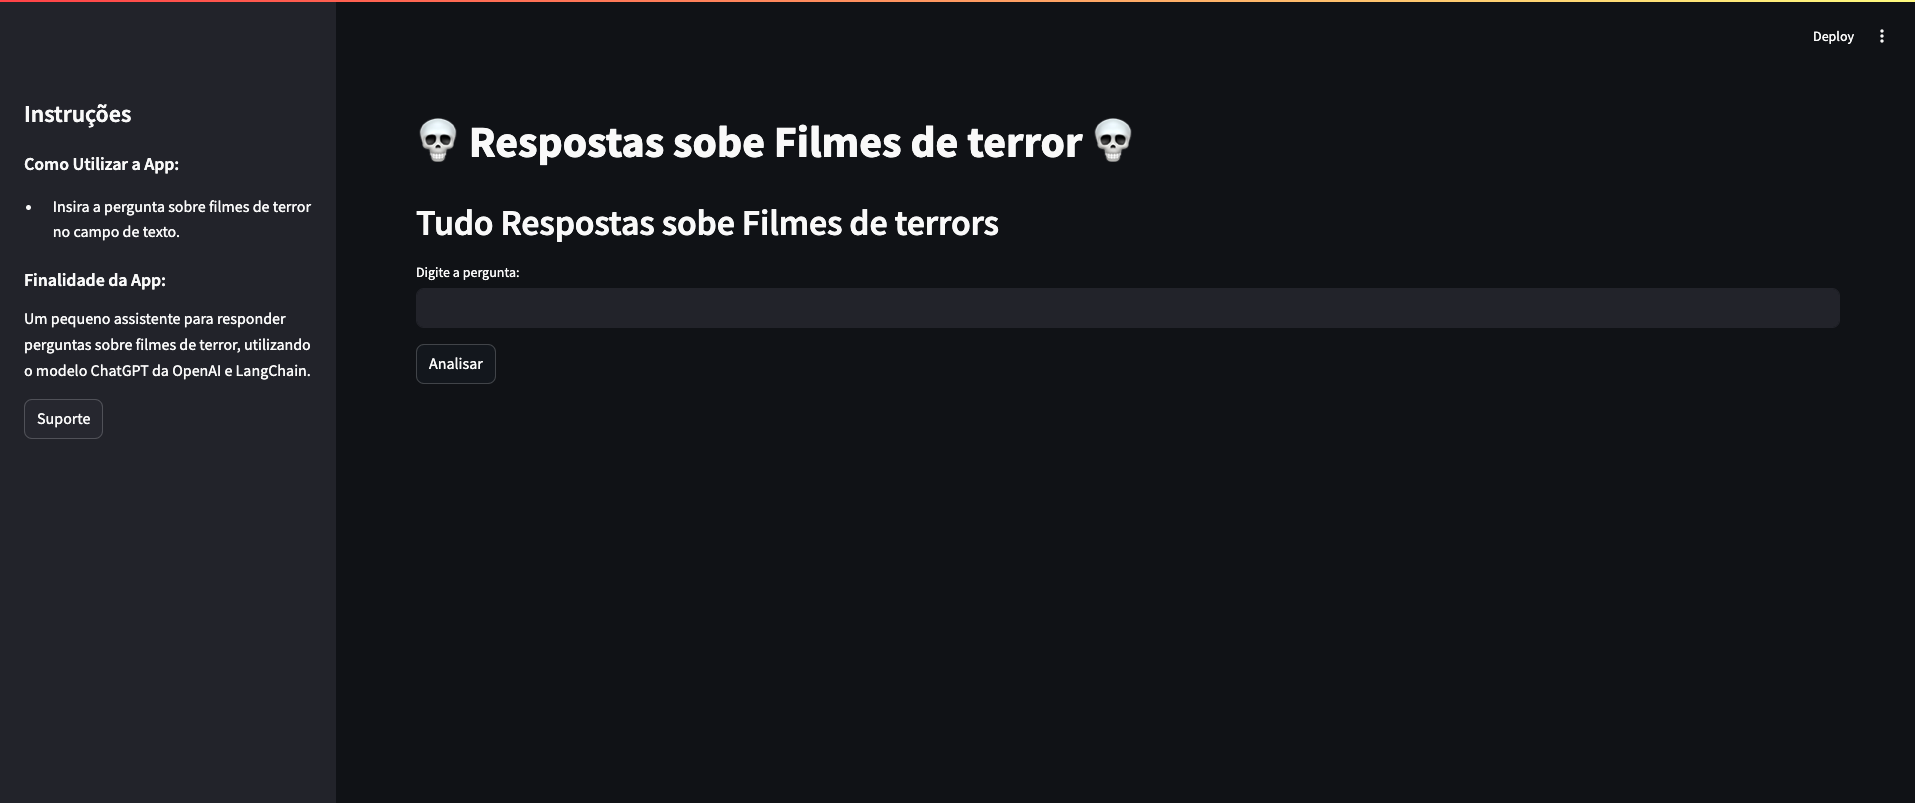
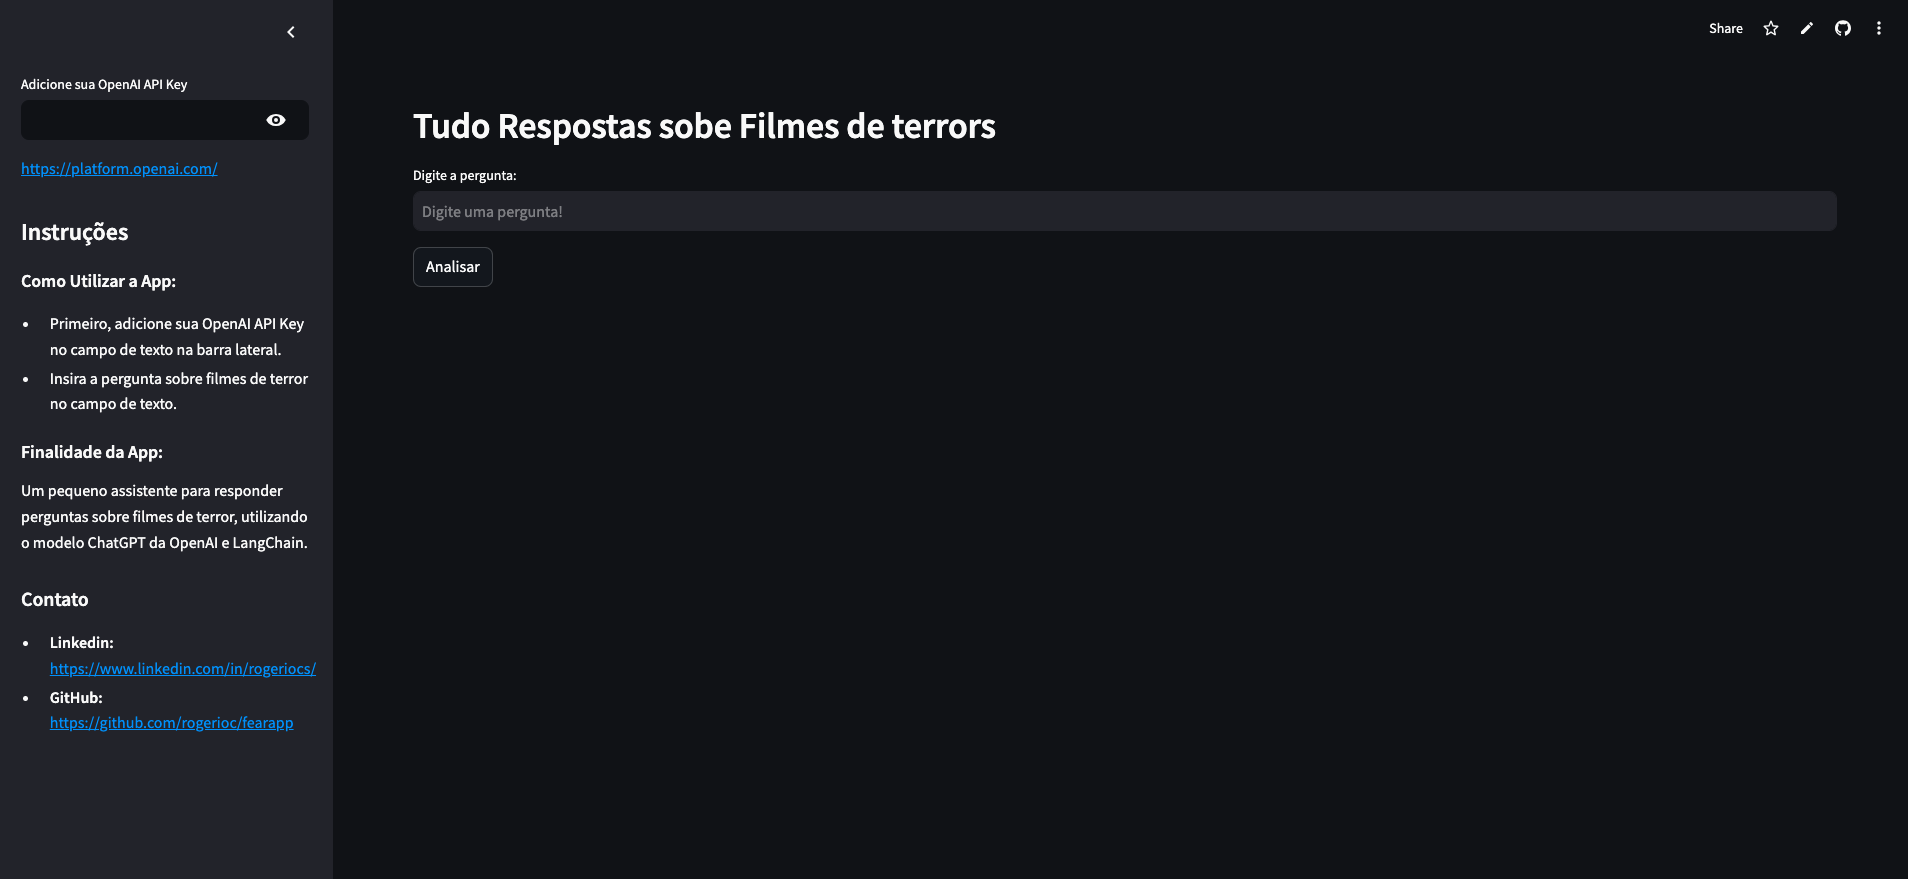
Update README and site image

diff --git a/README.MD b/README.MD
@@ -20,4 +20,7 @@ E para rodar o app web execute no terminal
 Obs: Para conseguir usar você deve criar e configurar o arquivo *.env* com `OPENAI_API_KEY = "ai_key"` ou configura essa váriavel no seu PATH
 
 Ou nessa nova versão deixar para adicionar no campo do site onde pede a apikey
+
+Versão online https://rcsfearapp.streamlit.app/
+
 ![Tela do app](/img/screenshot.png)
